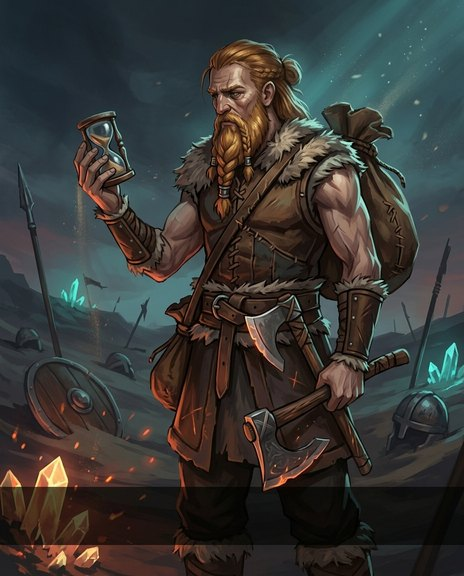
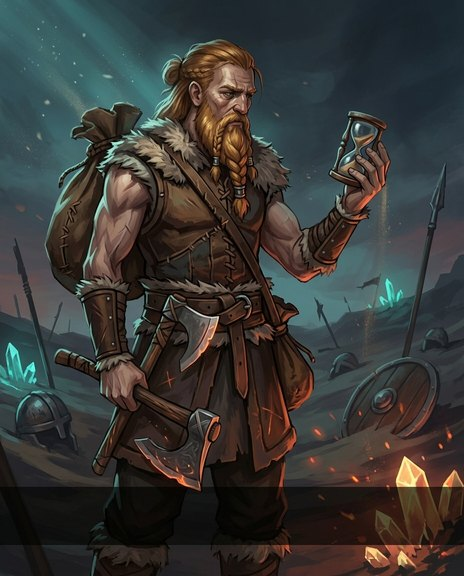
Карты смотрят друг на друга: герои вправо, враги влево
Правило автора. Девять портретов отражены при выгрузке — флаг mirror
в tools/art-gen/ui-art.json; правило записано в art/style/style.md.

diff --git a/tools/art-gen/export_ui.py b/tools/art-gen/export_ui.py
@@ -2,6 +2,7 @@
 
 Что куда идёт — в ui-art.json рядом: путь в прототипе → картинка из art/generated/.
 Картинки сжимаются до размера для экрана телефона, исходники не трогаются.
+mirror: true — отразить по горизонтали: на карте герой смотрит вправо, на врагов, а враг — влево, на героев.
 
   python tools/art-gen/export_ui.py
 """
@@ -9,7 +10,7 @@ import json
 import pathlib
 import sys
 
-from PIL import Image
+from PIL import Image, ImageOps
 
 ROOT = pathlib.Path(__file__).resolve().parents[2]
 SPEC = pathlib.Path(__file__).with_name("ui-art.json")
@@ -26,12 +27,14 @@ def main():
         size = tuple(src.get("size", spec["size"]))
         with Image.open(ROOT / "art/generated" / src["from"]) as im:
             pic = im.convert("RGB").resize(size, Image.LANCZOS)
+        if src.get("mirror"):
+            pic = ImageOps.mirror(pic)
         path = out / dst
         path.parent.mkdir(parents=True, exist_ok=True)
         pic.save(path, "JPEG", quality=86, optimize=True, progressive=True)
         kb = path.stat().st_size // 1024
         total += kb
-        print(f"{dst:22} ← {src['from']}  {size[0]}×{size[1]}, {kb} КБ")
+        print(f"{dst:22} ← {src['from']}  {size[0]}×{size[1]}{', отражён' if src.get('mirror') else ''}, {kb} КБ")
     print(f"Итого {len(spec['items'])} картинок, {total} КБ → {spec['out']}")
 
 

diff --git a/art/style/style.md b/art/style/style.md
@@ -57,13 +57,15 @@
 
 | Что | Формат | Кадр |
 |---|---|---|
-| Портрет врага | 4:5 | По пояс, без ног, как у героев: враги перекликаются с картами героев (ADR-0011). Ракурс — как у эталона автора, Безликого (`generated/enemies/foe-faceless__nb2.jpg`), но задаётся словами (ADR-0012). У каждого врага свои глина, тело, лицо, поза, руки, взгляд и место в биоме. Главная черта врага — то, по чему его назвали, — остаётся в кадре. Все враги целиком из глины своего биома, не живые люди |
-| Портрет героя | 4:5 | По пояс, три четверти, голова в верхней трети. Низ темнее — там имя: карта `.hc` в прототипе кадрирует по `object-position: 50% 20%` |
+| Портрет врага | 4:5 | По пояс, без ног, как у героев: враги перекликаются с картами героев (ADR-0011). Ракурс — как у эталона автора, Безликого (`generated/enemies/foe-faceless__nb2.jpg`), но задаётся словами (ADR-0012). У каждого врага свои глина, тело, лицо, поза, руки, взгляд и место в биоме. Главная черта врага — то, по чему его назвали, — остаётся в кадре. Все враги целиком из глины своего биома, не живые люди. Враг смотрит влево — на героев |
+| Портрет героя | 4:5 | По пояс, три четверти, голова в верхней трети. Низ темнее — там имя: карта `.hc` в прототипе кадрирует по `object-position: 50% 20%`. Герой смотрит вправо — на врагов |
 | Арена боя | 21:9 | Строго сверху, как карта настольной игры. Экран боя горизонтальный: герои слева, враги справа. Центр спокойный, детали — по верхнему и нижнему краю. Пробная арена в `generated/arenas/` вертикальная 9:16 — это ошибка формата, стиль верный |
 | Ресурс, изделие | 1:1 | Предмет — 55–60 % кадра. Фон — место добычи в расфокусе |
 | Иконка интерфейса: доблесть, стихия, класс, раса | 1:1, прозрачный фон | Эмблема — 80 % кадра, читается с 24 px. Классы — на одной шестигранной плитке из базальта с золотой кромкой, как доблесть. Школы — кристалл карста без внешнего свечения |
 | Эффект: бафф, дебафф | 1:1, прозрачный фон | Круглый медальон на 20–28 px. Полезный — бирюзовая нить по ободу, вредный — ржаво-красная |
 | Способность | 1:1 | Живопись в край, рамку даёт интерфейс |
+
+На карте герой всегда смотрит вправо, на врагов, а враг — влево, на героев (решение автора 27.09.2026). В промте так и пишем. Готовый арт, повёрнутый не туда, отражаем при выгрузке в прототип: `mirror` в `tools/art-gen/ui-art.json`.
 
 ## Фон и прозрачность
 

diff --git a/docs/progress/2026-09-27-основа-в-прототипе.md b/docs/progress/2026-09-27-основа-в-прототипе.md
@@ -12,5 +12,6 @@
   - неизученный враг — затемнённая размытая картина с «?»;
   - фон боя и шапка биома — арена.
 - Удалён последний арт GPT — 34 файла: страницы PDF в прототипе, фигуры врагов, залы.
+- Правило автора: на карте герой смотрит вправо, враг — влево. Девять портретов отражены при выгрузке (`mirror` в `ui-art.json`), правило записано в `art/style/style.md`.
 - Проверено в браузере: ошибок в консоли и битых картинок нет, бой рунного стража — пять карт.
 - Подводный камень: «Стужа» как чистый контроль без урона сдвинула демо-стену с 30-го этажа на 20-й. Сделана уроном по времени с числами «Увядания» — стена снова на 30-м, в модели темпа — на 28-м.

diff --git a/docs/STATE.md b/docs/STATE.md
@@ -34,6 +34,7 @@
   - враги Мастерской — основа ADR-0013, картинами в рамке;
   - отряд — герои сета 1 «Хранители Песочных Часов»;
   - фон боя и шапка биома — арена 21:9;
+  - на картах герои смотрят вправо, на врагов, враги — влево, на героев;
   - арта GPT в репозитории больше нет;
 - демо-стена полного отряда прежняя: «10 раундов» — 30-й этаж, прежняя модель темпа — 28-й.
 
